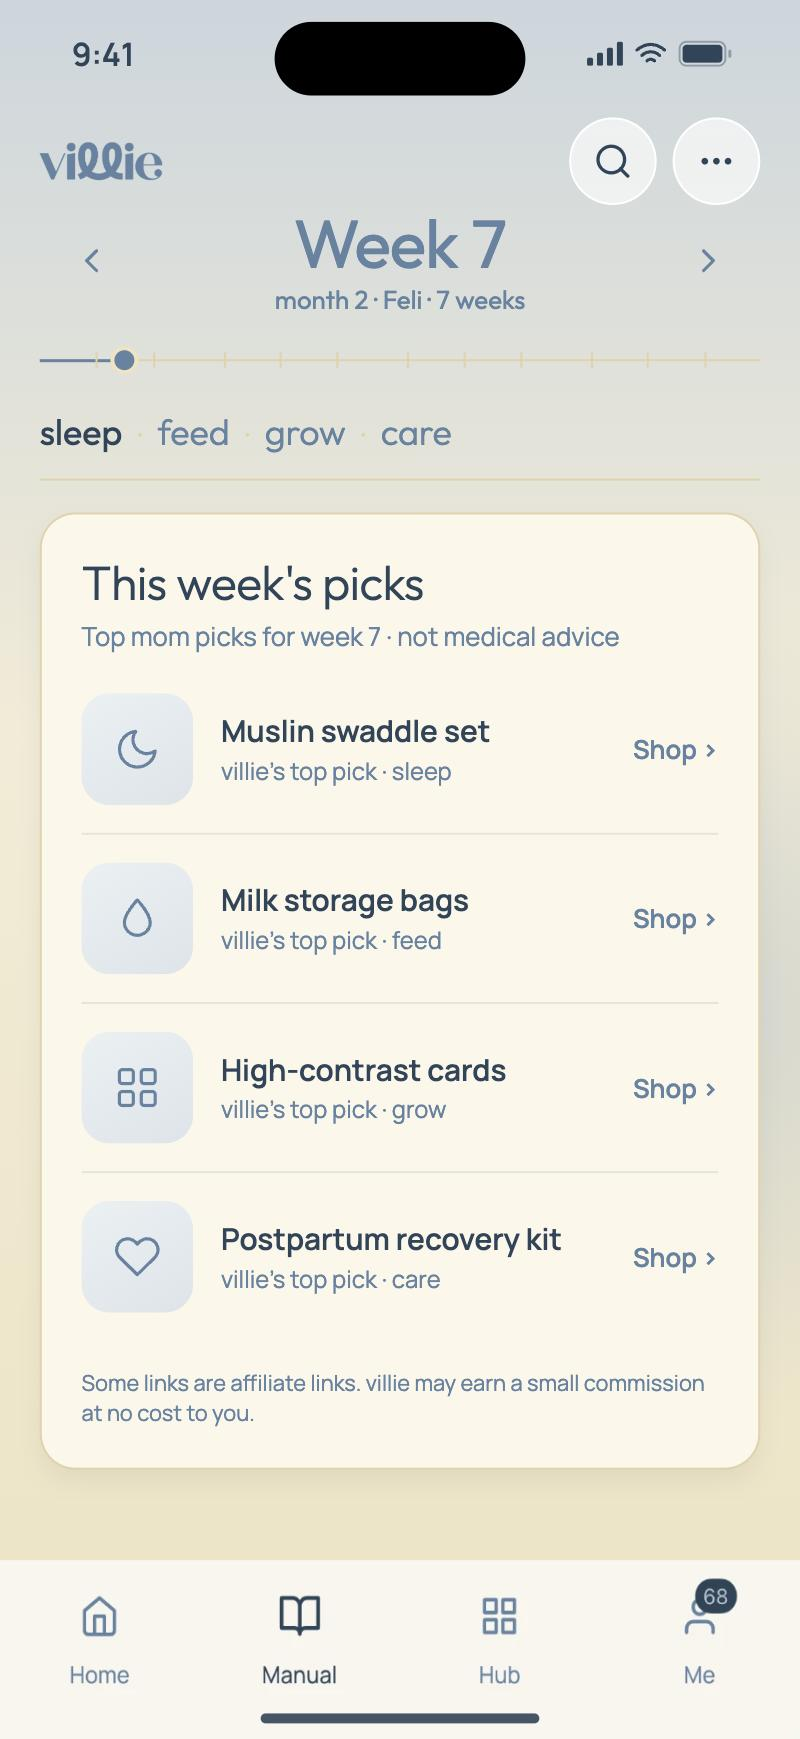
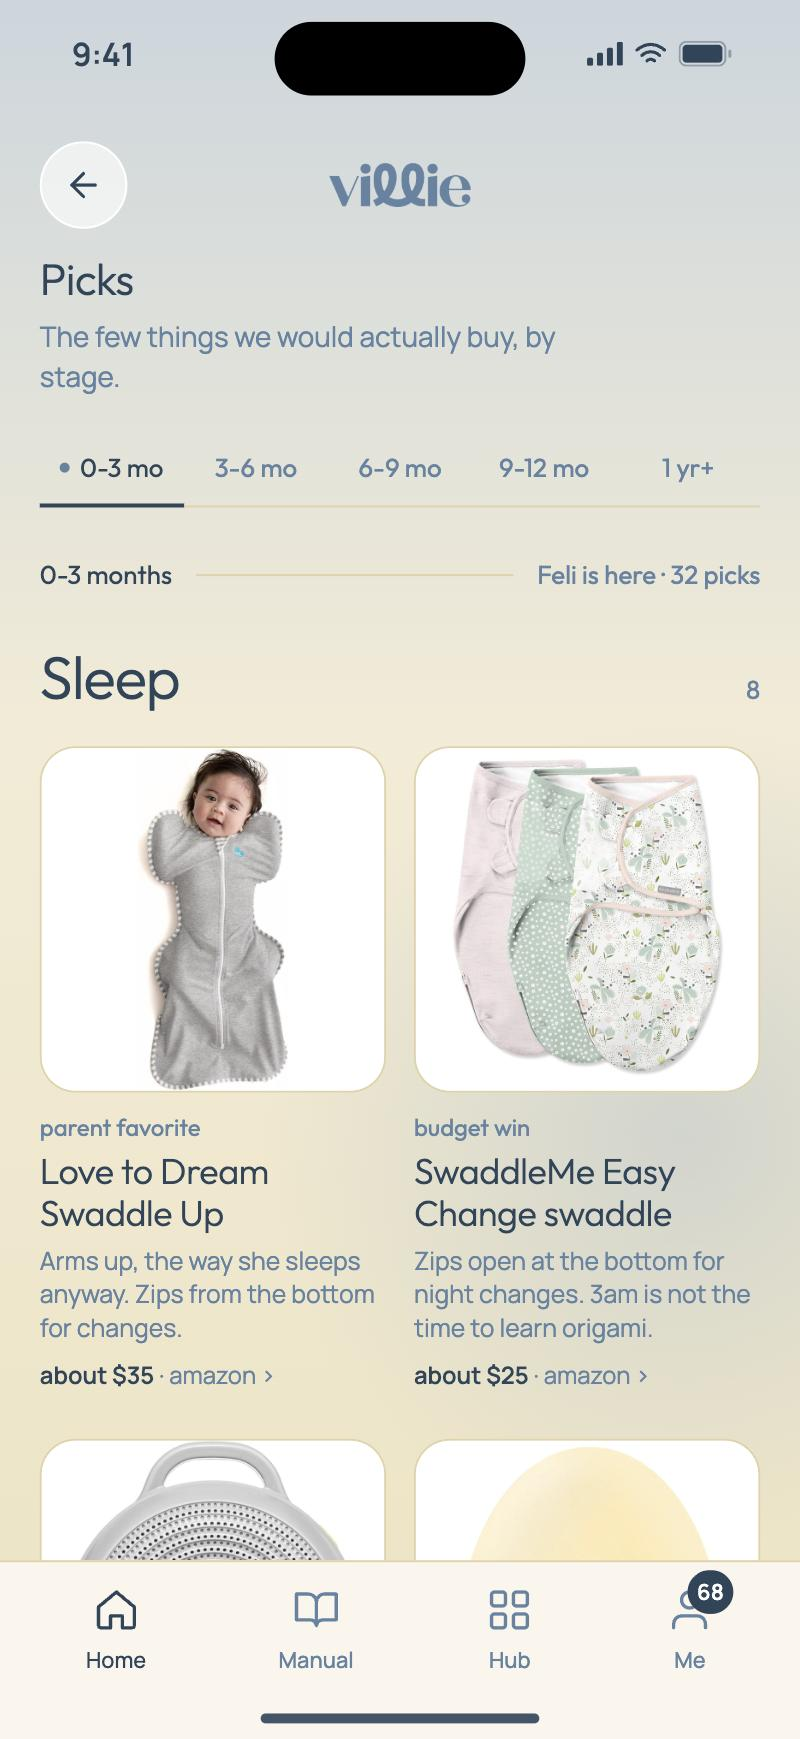
manual section: the real Picks screen, sharper questions, the rest of the app at a glance
Founder, 2026-11-03:
- 'runs through the first year' instead of 'runs to fifty-two';
- the three questions lead with the videos, the bread and butter:
  What do I do? one short video a week. How do I do it? the quick take
  and three things to tick off. What do I need for it? a short list,
  a shorter one to skip;
- the rotating picks screen is now the app's real Picks screen for
  0–3 months (the sleep shelf: Swaddle Up, SwaddleMe, Hushh, the egg
  night light, with their photos, tags and 'about' prices);
- 'Everything else' is a three-column glance: a line icon, a name, one
  line that doesn't give it all away; 'In the app' is gone.

diff --git a/index.html b/index.html
@@ -163,26 +163,14 @@
       .m-only { display:inline-flex; order:5; justify-self:start; }
     }
 
-    /* Index rows, not cards. */
-    .rows { border-top:1px solid var(--rule); margin-top:10px; max-width:920px; }
-    .row { display:grid; grid-template-columns:1fr 1.5fr auto; gap:32px; align-items:baseline;
-           padding:26px 0; border-bottom:1px solid var(--rule); }
-    .row h3 { font-size:21px; letter-spacing:-.022em; font-weight:500; margin:0; }
-    .row p { color:var(--graphite); margin:0; font-size:16px; }
-    .state { font-size:13.5px; color:var(--space); white-space:nowrap; }
-    .row.soon h3, .row.soon p { color:var(--space); }
-
-    .statement { background:var(--heather); padding:116px 0; }
-    .statement p { font-size:clamp(26px,4vw,52px); line-height:1.08; letter-spacing:-.035em;
-                   color:var(--ink); max-width:17ch; margin:0; font-weight:500; }
-
-    .join { background:var(--champagne); }
-    .fields { max-width:560px; }
-    .field { display:block; margin-bottom:20px; }
-    .field span { display:block; font-size:13.5px; color:var(--graphite); margin-bottom:7px; }
-    .field input { width:100%; padding:14px 15px; border-radius:0; border:1px solid var(--steel);
-                   background:var(--white); font-family:inherit; font-size:16px; color:var(--ink); }
-    .field input:focus { border-color:var(--ink); }
+    /* The rest of the app at a glance: a line icon, a name, one line. No cards. */
+    .glance { display:grid; grid-template-columns:repeat(3, 1fr); gap:40px 48px; margin-top:44px; max-width:980px; }
+    .g { display:grid; grid-template-columns:28px 1fr; gap:16px; align-items:start; }
+    .g svg { width:28px; height:28px; color:var(--ink); margin-top:1px; }
+    .g h3 { font-family:inherit; font-size:20px; letter-spacing:-.022em; font-weight:500; text-transform:none; margin:0 0 6px; }
+    .g p { color:var(--graphite); margin:0; font-size:15.5px; line-height:1.45; }
+    .g.soon svg, .g.soon h3 { color:var(--space); } .g.soon p { color:var(--space); }
+    .g .state { display:block; margin-top:6px; font-size:12.5px; color:var(--space); }
     .row2 { display:grid; grid-template-columns:1fr 1.25fr; gap:18px; }
     .ok { display:none; }
     .ok[aria-hidden="false"] { display:block; }
@@ -205,7 +193,8 @@
       .row { grid-template-columns:1fr; gap:8px; }
       .state { order:-1; }
       section, .statement { padding:64px 0; }
-      .row { padding:20px 0; gap:6px; } .row h3 { font-size:18px; }
+      .glance { grid-template-columns:1fr 1fr; gap:28px 22px; margin-top:32px; }
+      .g { grid-template-columns:24px 1fr; gap:12px; } .g svg { width:24px; height:24px; } .g h3 { font-size:17px; } .g p { font-size:14px; }
       .hero { padding:64px 0 76px; }
     }
     @media (max-width:560px) {
@@ -285,12 +274,12 @@
           <div class="wk-trio">
             <div>
               <h2>The week-by-week didn't have to stop.</h2>
-              <p class="body">Pregnancy gave you a briefing every week. Then the baby arrived and it went quiet — right as the questions got harder. villie picks it up at week one and runs to fifty-two.</p>
+              <p class="body">Pregnancy gave you a briefing every week. Then the baby arrived and it went quiet — right as the questions got harder. villie picks it up at week one and runs through the first year.</p>
               <p class="body">Not a feed. Not a search. The week you're actually in.</p>
               <div class="facts">
-                <div class="fact"><h3>What do I do?</h3><p>Three things for this week, as a list you can tick one-handed.</p></div>
-                <div class="fact"><h3>How do I do it?</h3><p>Four minutes from someone who treats babies. Shown, not told.</p></div>
-                <div class="fact"><h3>What do I need for it?</h3><p>The few things worth buying for the week you're in, and the many you can skip.</p></div>
+                <div class="fact"><h3>What do I do?</h3><p>One short video a week, from someone who treats babies. Watch it, know the week.</p></div>
+                <div class="fact"><h3>How do I do it?</h3><p>The quick take, and three things to tick off tonight.</p></div>
+                <div class="fact"><h3>What do I need for it?</h3><p>A short list worth buying. A shorter one you can skip.</p></div>
               </div>
               <a href="#join" class="btn d-only">Join the waitlist <span aria-hidden="true">&rarr;</span></a>
             </div>
@@ -298,7 +287,7 @@
               <div class="device"><div class="screen" id="rotating-screen">
                 <img src="screen-manual.jpg" alt="The Manual at week 7: the week navigator, the four pillars, this week's video and the quick take." class="on" width="800" height="1739" />
                 <img src="screen-milk.jpg" alt="The milk stash: a drop of milk showing 12 of 14 days saved, 18 bags and 86 ounces in the freezer, and the next bags to use." width="800" height="1739" loading="lazy" />
-                <img src="screen-picks.jpg" alt="This week's picks: four things worth buying for week 7, each marked villie's top pick." width="800" height="1739" loading="lazy" />
+                <img src="screen-picks.jpg" alt="Picks for 0 to 3 months: the sleep shelf, with the swaddle, the sound machine and the night light villie would actually buy." width="800" height="1739" loading="lazy" />
               </div></div>
             </figure>
             <a href="#join" class="btn m-only">Join the waitlist <span aria-hidden="true">&rarr;</span></a>
@@ -311,37 +300,13 @@
       <div class="wrap cols">
         <div class="reveal">
           <h2>Everything else you reach for.</h2>
-          <div class="rows">
-            <div class="row">
-              <h3>Your milk stash</h3>
-              <p>Every bag, every date, every ounce. You always know what's in the freezer and what goes next.</p>
-              <span class="state">In the app</span>
-            </div>
-            <div class="row">
-              <h3>The day sheet</h3>
-              <p>One page for whoever has the baby. Naps, feeds and what soothes, built from your own logs, handed over as a link.</p>
-              <span class="state">In the app</span>
-            </div>
-            <div class="row">
-              <h3>Sounds that settle</h3>
-              <p>White noise, heartbeat, rain. Set a timer, press play, get your arms back.</p>
-              <span class="state">In the app</span>
-            </div>
-            <div class="row">
-              <h3>Picks worth buying</h3>
-              <p>A short list for the week you're in. And a shorter one you can skip.</p>
-              <span class="state">In the app</span>
-            </div>
-            <div class="row">
-              <h3>The Buzz</h3>
-              <p>What mothers are talking about this week. Reported plainly, never preached at.</p>
-              <span class="state">In the app</span>
-            </div>
-            <div class="row soon">
-              <h3>Milk sharing</h3>
-              <p>Mothers with milk, meeting mothers who need it. It opens when it's ready.</p>
-              <span class="state">Coming soon</span>
-            </div>
+          <div class="glance">
+            <div class="g"><svg viewBox="0 0 24 24" fill="none" stroke="currentColor" stroke-width="1.5" stroke-linecap="round" stroke-linejoin="round" aria-hidden="true"><path d="M12 2.7s6.5 7 6.5 11.3a6.5 6.5 0 0 1-13 0C5.5 9.7 12 2.7 12 2.7z"/></svg><div><h3>Your milk stash</h3><p>Every bag, every ounce. You always know what's next.</p></div></div>
+            <div class="g"><svg viewBox="0 0 24 24" fill="none" stroke="currentColor" stroke-width="1.5" stroke-linecap="round" stroke-linejoin="round" aria-hidden="true"><path d="M14 2H6a2 2 0 0 0-2 2v16a2 2 0 0 0 2 2h12a2 2 0 0 0 2-2V8z"/><polyline points="14 2 14 8 20 8"/><line x1="8" y1="13" x2="16" y2="13"/><line x1="8" y1="17" x2="13" y2="17"/></svg><div><h3>The day sheet</h3><p>One page for whoever has the baby, handed over as a link.</p></div></div>
+            <div class="g"><svg viewBox="0 0 24 24" fill="none" stroke="currentColor" stroke-width="1.5" stroke-linecap="round" stroke-linejoin="round" aria-hidden="true"><path d="M2 12c2-3 4-3 6 0s4 3 6 0 4-3 6 0"/><path d="M2 17c2-3 4-3 6 0s4 3 6 0 4-3 6 0"/><path d="M2 7c2-3 4-3 6 0s4 3 6 0 4-3 6 0"/></svg><div><h3>Sounds that settle</h3><p>Rain, heartbeat, white noise. Get your arms back.</p></div></div>
+            <div class="g"><svg viewBox="0 0 24 24" fill="none" stroke="currentColor" stroke-width="1.5" stroke-linecap="round" stroke-linejoin="round" aria-hidden="true"><path d="M20.6 13.4 13.4 20.6a2 2 0 0 1-2.8 0L2 12V2h10l8.6 8.6a2 2 0 0 1 0 2.8z"/><line x1="7" y1="7" x2="7.01" y2="7"/></svg><div><h3>Picks worth buying</h3><p>A short list. A shorter one to skip.</p></div></div>
+            <div class="g"><svg viewBox="0 0 24 24" fill="none" stroke="currentColor" stroke-width="1.5" stroke-linecap="round" stroke-linejoin="round" aria-hidden="true"><path d="M3 11l18-5v12L3 14v-3z"/><path d="M11.6 16.8a3 3 0 1 1-5.8-1.6"/></svg><div><h3>The Buzz</h3><p>What mothers are talking about this week.</p></div></div>
+            <div class="g soon"><svg viewBox="0 0 24 24" fill="none" stroke="currentColor" stroke-width="1.5" stroke-linecap="round" stroke-linejoin="round" aria-hidden="true"><circle cx="18" cy="5" r="3"/><circle cx="6" cy="12" r="3"/><circle cx="18" cy="19" r="3"/><line x1="8.6" y1="13.5" x2="15.4" y2="17.5"/><line x1="15.4" y1="6.5" x2="8.6" y2="10.5"/></svg><div><h3>Milk sharing</h3><p>Mothers with milk, meeting mothers who need it.</p><span class="state">Coming soon</span></div></div>
           </div>
         </div>
       </div>
